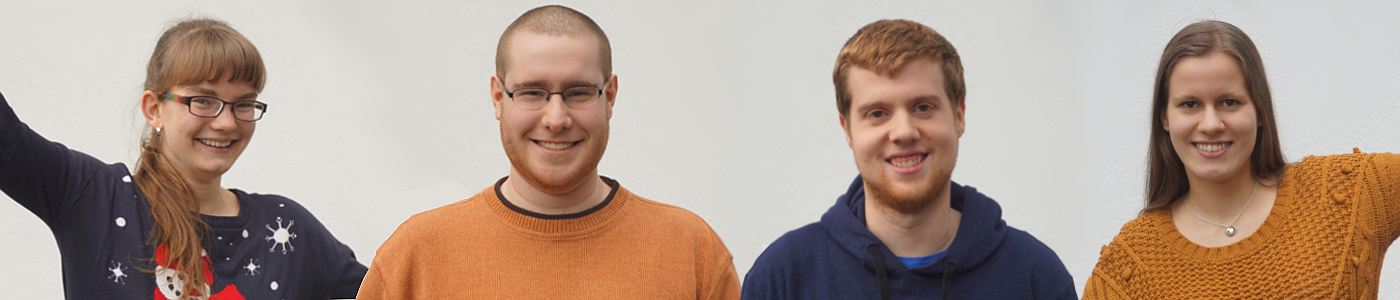
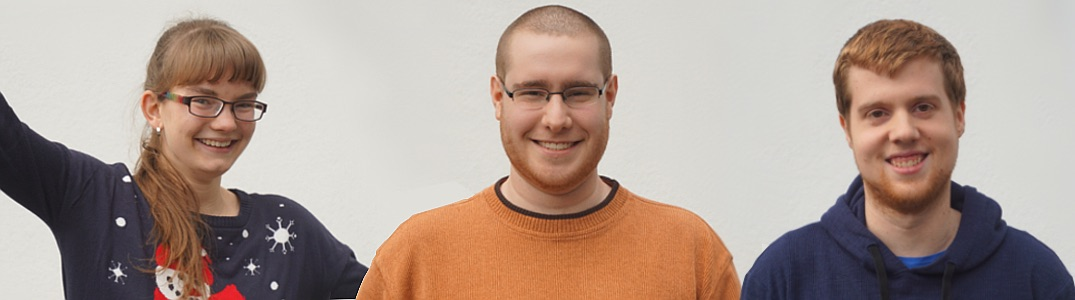
Censorship.

diff --git a/html/main.html b/html/main.html
@@ -307,7 +307,6 @@
 					<div id="Michaela"> Michaela Klauck </div>
 					<div id="Max"> Maximilian Schwenger </div>
 					<div id="Christopher"> Christopher Schommer </div>
-					<div id="Sarah"> Sarah Sterz </div>
 				</div>
 			</div>
 				

diff --git a/README.md b/README.md
@@ -119,8 +119,8 @@ When editing the README have a look at this [markdown-cheatsheet](https://github
 Authors:
 ========
 
-* s9miklau@stud.uni-saarland.de
-* Christopher Schommer (christopherschommer@gmx.de)
+* Michaela Klauck (s9miklau@stud.uni-saarland.de)
+* Christopher Schommer (s9chschom@stud.uni-saarland.de)
 * Maximilian Schwenger (schwenger@stud.uni-saarland.de)
 * s9saster@stud.uni-saarland.de
 
